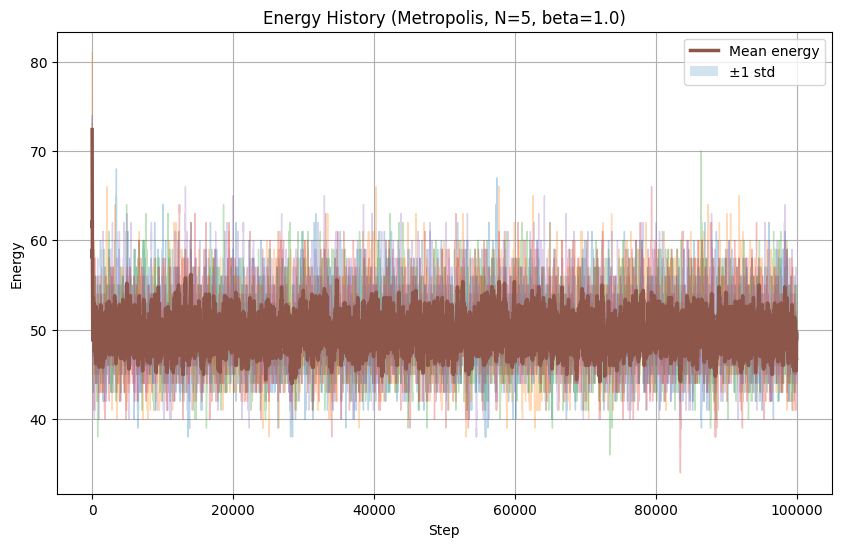
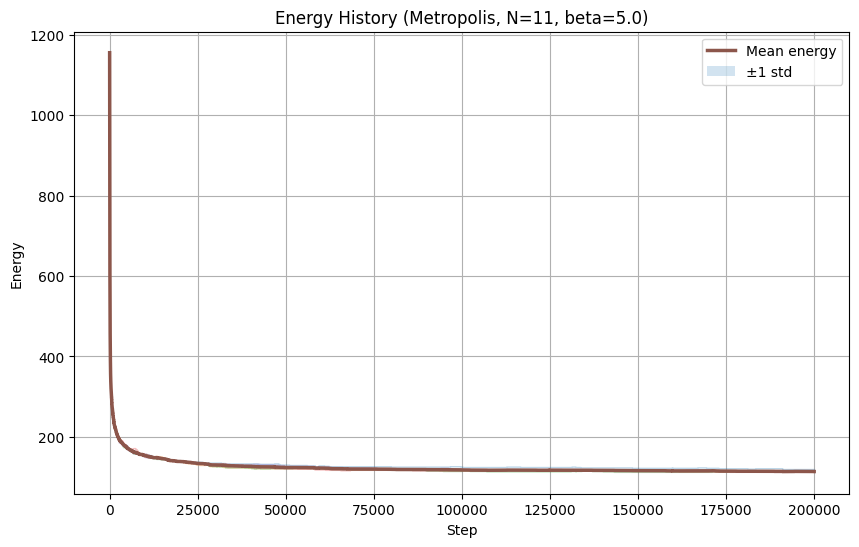
Initialization state strategies

diff --git a/mcmc.py b/mcmc.py
@@ -29,24 +29,64 @@ def is_attacking(i1, j1, k1, i2, j2, k2):
 
     return False
 
+import math
 
 class State3DQueens:
-    def __init__(self, N, Q=None, positions=None):
+    def __init__(self, N, Q=None, positions=None, init_mode="latin"):
+        """
+        init_mode:
+            - "latin": k = (i + j) mod N (deterministic Latin-square style)
+            - "klarner": k = (3i + 5j) mod N (requires gcd(N, 210) == 1 for non-attacking theorem)
+            - "random": fully random distinct 3D positions
+        """
         self.N = N
         if Q is None:
             Q = N * N
         self.Q = Q
 
         if positions is None:
-            total_cells = N ** 3
-            if Q > total_cells:
-                raise ValueError("Q cannot exceed N^3.")
+            if init_mode in ("latin", "klarner"):
+                if Q != N * N:
+                    raise ValueError(
+                        f"{init_mode} initialization assumes Q = N^2, "
+                        f"got Q={Q}, N^2={N*N}."
+                    )
 
-            flat_indices = np.random.choice(total_cells, size=Q, replace=False)
-            k_coords = flat_indices % N
-            j_coords = (flat_indices // N) % N
-            i_coords = flat_indices // (N * N)
-            self.queens = np.stack([i_coords, j_coords, k_coords], axis=1)
+                # Create full (i,j) grid
+                i_grid, j_grid = np.indices((N, N))  # shape (N,N)
+
+                if init_mode == "latin":
+                    # Latin square: k = (i + j) mod N
+                    k_grid = (i_grid + j_grid) % N
+                else:  # "klarner"
+                    # Klarner construction: k = (3i + 5j) mod N
+                    # For gcd(N, 210) == 1 this is a known non-attacking configuration
+                    if math.gcd(N, 210) != 1:
+                        print(
+                            f"[warning] Klarner construction has no guarantee for N={N} "
+                            f"(gcd(N, 210) = {math.gcd(N,210)}). Using it anyway."
+                        )
+                    k_grid = (3 * i_grid + 5 * j_grid) % N
+
+                # Flatten into (Q, 3)
+                i_coords = i_grid.ravel()
+                j_coords = j_grid.ravel()
+                k_coords = k_grid.ravel()
+                self.queens = np.stack([i_coords, j_coords, k_coords], axis=1)
+
+            elif init_mode == "random":
+                total_cells = N ** 3
+                if Q > total_cells:
+                    raise ValueError("Q cannot exceed N^3.")
+
+                flat_indices = np.random.choice(total_cells, size=Q, replace=False)
+                k_coords = flat_indices % N
+                j_coords = (flat_indices // N) % N
+                i_coords = (flat_indices // (N * N))
+                self.queens = np.stack([i_coords, j_coords, k_coords], axis=1)
+
+            else:
+                raise ValueError(f"Unknown init_mode: {init_mode}")
         else:
             positions = np.asarray(positions, dtype=int)
             if positions.shape[1] != 3:
@@ -54,6 +94,7 @@ class State3DQueens:
             self.queens = positions
             self.Q = positions.shape[0]
 
+        # Occupancy set
         self.occ_set = set()
         for (i, j, k) in self.queens:
             pos = (int(i), int(j), int(k))
@@ -62,6 +103,7 @@ class State3DQueens:
             self.occ_set.add(pos)
 
         self._energy = None
+
 
     def copy(self):
         new_state = State3DQueens(self.N, Q=self.Q, positions=self.queens.copy())
@@ -195,7 +237,7 @@ def metropolis_mcmc(N, n_steps, beta_schedule, verbose=True, seed=None, Q=None):
     if seed is not None:
         np.random.seed(seed)
 
-    state = State3DQueens(N, Q=Q)
+    state = State3DQueens(N, Q=Q, init_mode = "latin")
     current_energy = state.energy(recompute=True)
 
     best_state = state.copy()
@@ -429,11 +471,11 @@ def measure_min_energy_vs_N(
 
 
 if __name__ == "__main__":
-    N = 5
+    N = 11
     n_steps = 200000
     n_runs = 5
 
-    beta_const = 1.0
+    beta_const = 5.0
     beta_schedule_const = constant_beta(beta_const)
 
     print(f"Running {n_runs} runs with constant beta = {beta_const}")
@@ -458,7 +500,7 @@ if __name__ == "__main__":
     # Example 2: simulated annealing with linear schedule
     beta_start = 0.1
     beta_end = 5.0
-    beta_schedule_sa = exponential_annealing_beta(beta_start, beta_end, n_steps)
+    beta_schedule_sa = linear_annealing_beta(beta_start, beta_end, n_steps)
 
     print(
         f"\nRunning {n_runs} runs with simulated annealing "
